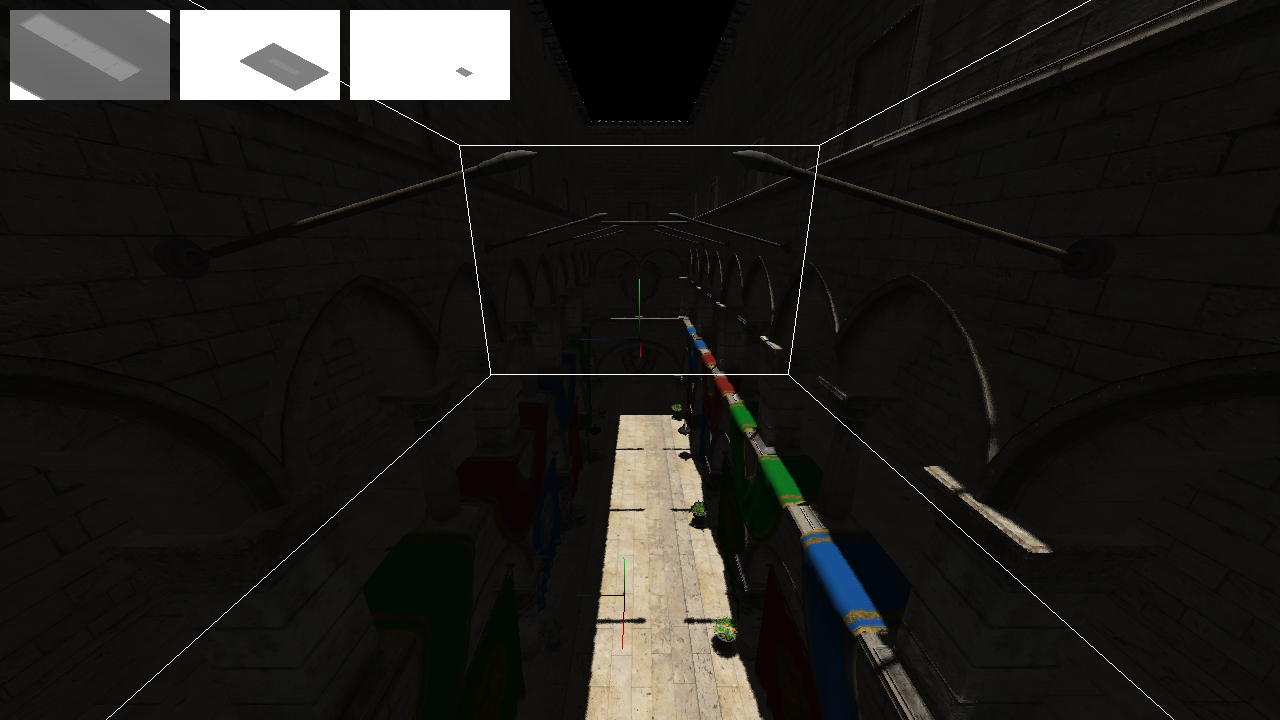
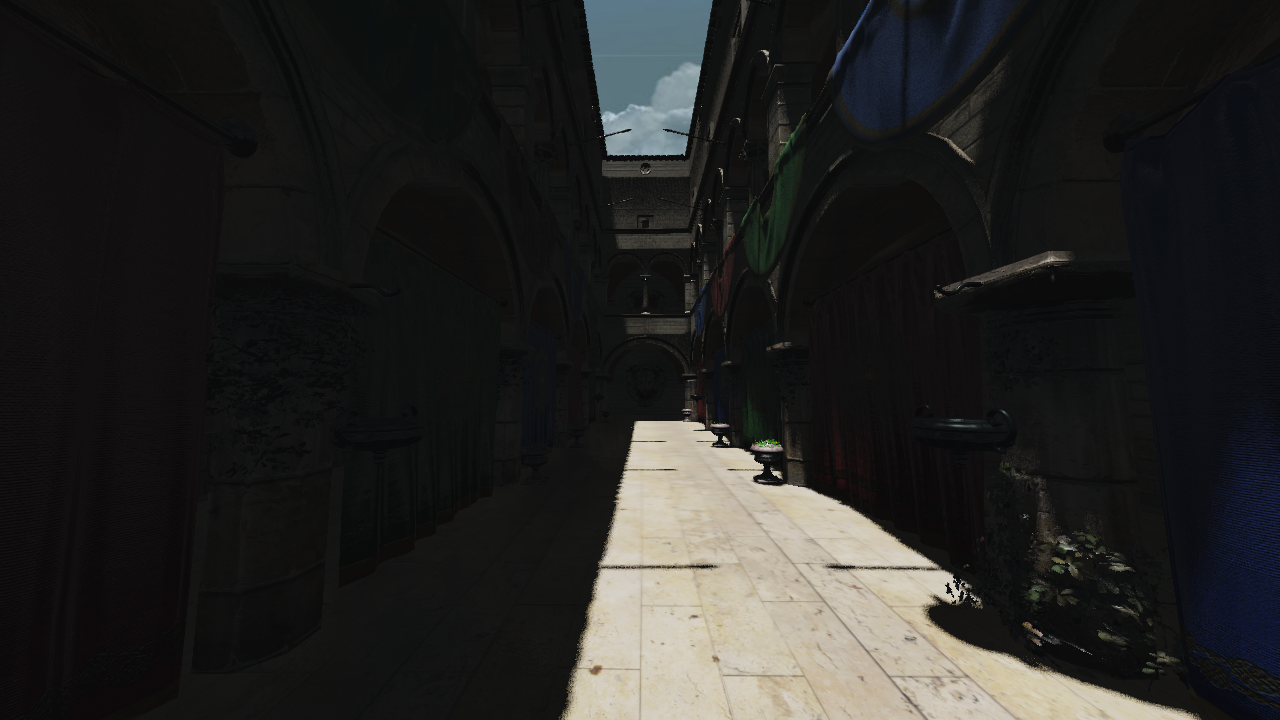
Improved UI & clean code.

diff --git a/src/ModelViewer.cpp b/src/ModelViewer.cpp
@@ -342,6 +342,12 @@ void Viewer::onCreate()
 	m_storageFramebuffer = Framebuffer::create(storageAttachment, 2);
 
 	m_camera.set(m_model->bbox);
+
+	m_near = 0.01f;
+	m_far = 100.f;
+	m_hFov = anglef::degree(90.f);
+	m_debug = true;
+
 	attach<ImGuiLayer>();
 }
 
@@ -352,7 +358,8 @@ void Viewer::onDestroy()
 void Viewer::onUpdate(aka::Time::Unit deltaTime)
 {
 	// Arcball
-	m_camera.update(deltaTime);
+	if(!ImGui::GetIO().WantCaptureKeyboard)
+		m_camera.update(deltaTime);
 
 	// TOD
 	if (Mouse::pressed(MouseButton::ButtonMiddle))
@@ -366,6 +373,14 @@ void Viewer::onUpdate(aka::Time::Unit deltaTime)
 	if (Keyboard::down(KeyboardKey::R))
 	{
 		m_camera.set(m_model->bbox);
+	}
+	if (Keyboard::down(KeyboardKey::D))
+	{
+		m_debug = !m_debug;
+	}
+	if (Keyboard::down(KeyboardKey::PrintScreen))
+	{
+		GraphicBackend::screenshot("screen.png");
 	}
 	// Hot reload
 	if (Keyboard::down(KeyboardKey::Space))
@@ -426,15 +441,12 @@ void Viewer::onRender()
 	mat4f debugView = mat4f::inverse(mat4f::lookAt(m_model->bbox.center() + m_model->bbox.extent(), point3f(0.f)));
 	mat4f view = mat4f::inverse(m_camera.transform());
 	// TODO use camera (Arcball inherit camera ?)
-	const float near = 0.01f;
-	const float far = 100.f;
-	const anglef angle = anglef::degree(90.f);
-	mat4f debugPerspective = mat4f::perspective(angle, (float)backbuffer->width() / (float)backbuffer->height(), 0.01f, 1000.f);
-	mat4f perspective = mat4f::perspective(angle, (float)backbuffer->width() / (float)backbuffer->height(), near, far);
+	mat4f debugPerspective = mat4f::perspective(m_hFov, (float)backbuffer->width() / (float)backbuffer->height(), 0.01f, 1000.f);
+	mat4f perspective = mat4f::perspective(m_hFov, (float)backbuffer->width() / (float)backbuffer->height(), m_near, m_far);
 
 	// Generate shadow cascades
 	mat4f worldToLightSpaceMatrix[cascadeCount];
-	const float offset[cascadeCount + 1] = { near, far / 20.f, far / 5.f, far };
+	const float offset[cascadeCount + 1] = { m_near, m_far / 20.f, m_far / 5.f, m_far };
 	float cascadeEndClipSpace[cascadeCount];
 	for (size_t i = 0; i < cascadeCount; i++)
 	{
@@ -442,7 +454,7 @@ void Viewer::onRender()
 		float h = (float)height();
 		float n = offset[i];
 		float f = offset[i + 1];
-		mat4f p = mat4f::perspective(angle, w / h, n, f);
+		mat4f p = mat4f::perspective(m_hFov, w / h, n, f);
 		worldToLightSpaceMatrix[i] = computeShadowViewProjectionMatrix(view, p, m_shadowCascadeTexture[i]->width(), n, f, m_lightDir);
 		vec4f clipSpace = perspective * vec4f(0.f, 0.f, -offset[i + 1], 1.f);
 		cascadeEndClipSpace[i] = clipSpace.z / clipSpace.w;
@@ -453,9 +465,8 @@ void Viewer::onRender()
 		col4f(0.0, 0.0, 0.5, 0.0),
 		col4f(0.5, 0.5, 0.5, 1.0)
 	);
-	mat4f worldToLightTextureSpaceMatrix[cascadeCount];
 	for (size_t i = 0; i < cascadeCount; i++)
-		worldToLightTextureSpaceMatrix[i] = projectionToTextureCoordinateMatrix * worldToLightSpaceMatrix[i];
+		m_worldToLightTextureSpaceMatrix[i] = projectionToTextureCoordinateMatrix * worldToLightSpaceMatrix[i];
 
 	// --- Shadow pass
 	RenderPass shadowPass;
@@ -475,7 +486,7 @@ void Viewer::onRender()
 		m_shadowFramebuffer->attachment(FramebufferAttachmentType::Depth, m_shadowCascadeTexture[i]);
 		m_shadowFramebuffer->clear(color4f(1.f), 1.f, 0, ClearMask::Depth);
 		m_shadowMaterial->set<mat4f>("u_light", worldToLightSpaceMatrix[i]);
- 		for (size_t i = 0; i < m_model->nodes.size(); i++)
+		for (size_t i = 0; i < m_model->nodes.size(); i++)
 		{
 			m_shadowMaterial->set<mat4f>("u_model", m_model->nodes[i].transform);
 			shadowPass.mesh = m_model->nodes[i].mesh;
@@ -558,7 +569,7 @@ void Viewer::onRender()
 		m_lightingMaterial->set<Texture::Ptr>("u_roughness", m_roughness);
 		m_lightingMaterial->set<Texture::Ptr>("u_skybox", m_skybox);
 		m_lightingMaterial->set<Texture::Ptr>("u_shadowTexture[0]", m_shadowCascadeTexture, cascadeCount);
-		m_lightingMaterial->set<mat4f>("u_worldToLightTextureSpace[0]", worldToLightTextureSpaceMatrix, cascadeCount);
+		m_lightingMaterial->set<mat4f>("u_worldToLightTextureSpace[0]", m_worldToLightTextureSpaceMatrix, cascadeCount);
 		m_lightingMaterial->set<vec3f>("u_lightDir", m_lightDir);
 		m_lightingMaterial->set<vec3f>("u_cameraPos", vec3f(m_camera.transform()[3]));
 		m_lightingMaterial->set<float>("u_cascadeEndClipSpace[0]", cascadeEndClipSpace, cascadeCount);
@@ -579,7 +590,7 @@ void Viewer::onRender()
 		}
 		m_material->set<mat4f>("u_view", renderView);
 		m_material->set<mat4f>("u_projection", renderPerspective);
-		m_material->set<mat4f>("u_light[0]", worldToLightTextureSpaceMatrix, cascadeCount);
+		m_material->set<mat4f>("u_light[0]", m_worldToLightTextureSpaceMatrix, cascadeCount);
 		m_material->set<vec3f>("u_lightDir", m_lightDir);
 		m_material->set<Texture::Ptr>("u_shadowTexture[0]", m_shadowCascadeTexture, cascadeCount);
 		m_material->set<float>("u_cascadeEndClipSpace[0]", cascadeEndClipSpace, cascadeCount);
@@ -656,14 +667,16 @@ void Viewer::onRender()
 	fxaaPass.execute();
 
 	// --- Debug pass
-	// TODO add pipeline (default pipeline, debug pipeline...)
-	// Debug pipeline : create origin mesh. for every mesh in scene, draw bbox & origin as line.
-	vec2f windowSize = vec2f((float)backbuffer->width(), (float)backbuffer->height());
-	vec2f pos[3];
-	vec2f size = vec2f(128.f);
-	for (size_t i = 0; i < cascadeCount; i++)
-		pos[i] = vec2f(size.x + 10.f * (i + 1), windowSize.y - size.y - 10.f);
+	if (m_debug)
 	{
+		// TODO add pipeline (default pipeline, debug pipeline...)
+		// Debug pipeline : create origin mesh. for every mesh in scene, draw bbox & origin as line.
+		vec2f windowSize = vec2f((float)backbuffer->width(), (float)backbuffer->height());
+		vec2f pos[3];
+		vec2f size = vec2f(128.f);
+		for (size_t i = 0; i < cascadeCount; i++)
+			pos[i] = vec2f(size.x + 10.f * (i + 1), windowSize.y - size.y - 10.f);
+		
 		int hovered = -1;
 		const Position& p = Mouse::position();
 		for (size_t i = 0; i < cascadeCount; i++)
@@ -684,14 +697,13 @@ void Viewer::onRender()
 		}
 		else
 		{
-			Renderer3D::drawFrustum(mat4f::perspective(angle, (float)backbuffer->width() / (float)backbuffer->height(), offset[hovered], offset[hovered + 1]) * view);
+			Renderer3D::drawFrustum(mat4f::perspective(m_hFov, (float)backbuffer->width() / (float)backbuffer->height(), offset[hovered], offset[hovered + 1]) * view);
 			Renderer3D::drawFrustum(worldToLightSpaceMatrix[hovered]);
 		}
 		Renderer3D::drawTransform(mat4f::translate(vec3f(m_model->bbox.center())) * mat4f::scale(m_model->bbox.extent() / 2.f));
 		Renderer3D::render(GraphicBackend::backbuffer(), renderView, renderPerspective);
 		Renderer3D::clear();
-	}
-	{
+		
 		for (size_t i = 0; i < cascadeCount; i++)
 			Renderer2D::drawRect(
 				mat3f::identity(),
@@ -705,13 +717,26 @@ void Viewer::onRender()
 		Renderer2D::clear();
 	}
 
-	 {
+	if (m_debug)
+	{
 		if (ImGui::Begin("Info"))
 		{
 			ImGuiIO& io = ImGui::GetIO();
 			ImGui::Text("Resolution : %ux%u", width(), height());
 			ImGui::Text("%.3f ms/frame", 1000.0f / ImGui::GetIO().Framerate);
 			ImGui::Text("%.1f FPS", ImGui::GetIO().Framerate);
+			// TODO toggle fullscreen, vsync
+		}
+		ImGui::End();
+
+		if (ImGui::Begin("Camera"))
+		{
+			float fov = m_hFov.radian();
+			if (ImGui::SliderAngle("Fov", &fov, 10.f, 160.f))
+				m_hFov = anglef::radian(fov);
+			ImGui::SliderFloat("Near", &m_near, 0.001f, 10.f);
+			ImGui::SliderFloat("Far", &m_far, 10.f, 1000.f);
+			//imgui gizmo
 		}
 		ImGui::End();
 

diff --git a/src/ModelViewer.h b/src/ModelViewer.h
@@ -15,8 +15,17 @@ public:
 	void onUpdate(Time::Unit deltaTime) override;
 	void onRender() override;
 private:
+	// Camera info
+	float m_near;
+	float m_far;
+	aka::anglef m_hFov;
+
+	// Debug info
+	bool m_debug;
+
 	// shadow map pass
 	static const size_t cascadeCount = 3;
+	aka::mat4f m_worldToLightTextureSpaceMatrix[cascadeCount];
 	aka::Texture::Ptr m_shadowCascadeTexture[cascadeCount];
 	aka::Framebuffer::Ptr m_shadowFramebuffer;
 	aka::ShaderMaterial::Ptr m_shadowMaterial;

diff --git a/README.md b/README.md
@@ -1,19 +1,21 @@
-# AkaViewer
+# Model Viewer
 
-3D viewer based on [Aka engine](https://github.com/antaalt/Aka) using Assimp.
+3D viewer based on [Aka engine](https://github.com/antaalt/Aka).
 
 ![Image](asset/screens/sponza.png)
 
 ## Features
 - Support many model format with Assimp
-- Shadow rendering using CSM
-- Debug rendering tools
-- Use normal maps of models
+- Deferred rendering
+- Shadow mapping (CSM)
+- Normal mapping
+- PBR rendering
+- FXAA
+- Skybox
 
 ## Roadmap
 - Correct blending & transparent rendering
 - Add SSAO as ambient occlusion
-- Add HDR lighting
 - Add spot light / point lights
-- Anti-aliasing (Multi sampling)
 - Add ray tracing shadows / lightings
+- Add scene graph and UI
